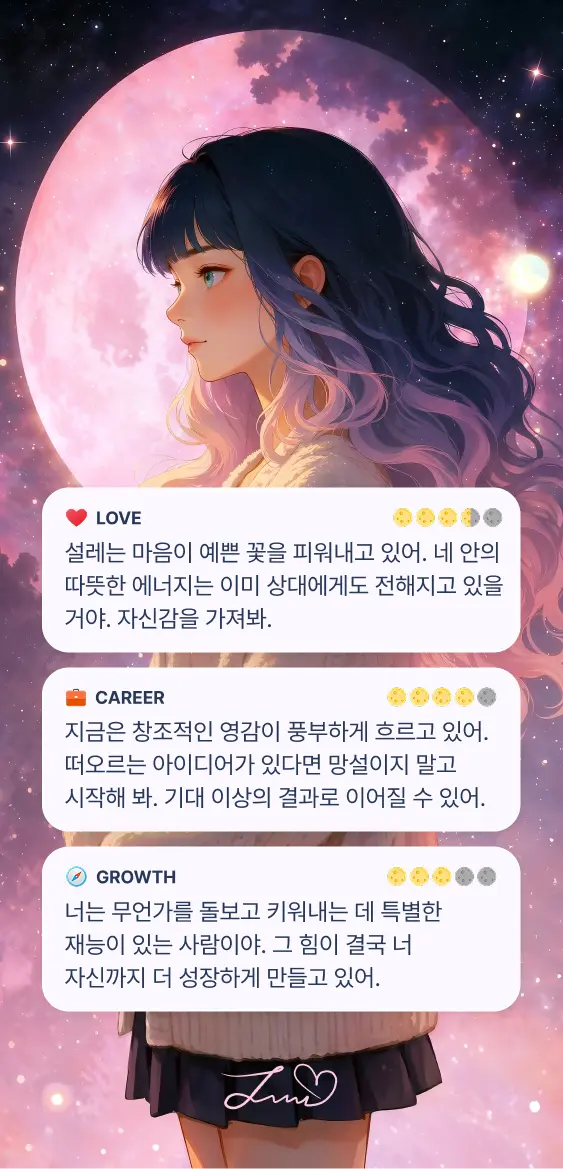
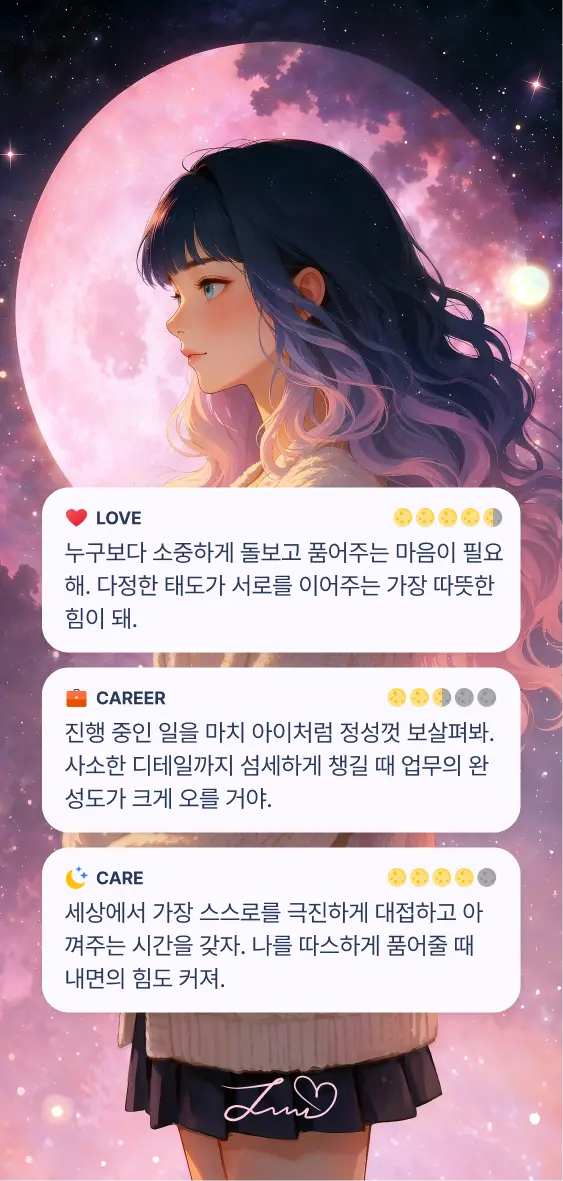
목업 수정 및 리터치

diff --git a/src/sections/HowItWorks.tsx b/src/sections/HowItWorks.tsx
@@ -5,10 +5,10 @@ import StoreButtons from '../components/StoreButtons'
 
 const steps = [
   { num: '01', title: '마음계절을 골라요.', desc: '오늘 나는 봄, 여름, 가을, 겨울?\n지금 내 마음의 온도를 계절로 선택해요.', img: '/step-1.webp' },
-  { num: '02', title: '리딩 방법을 선택해요.', desc: '나의 타로카드와 스마트폰 중에서\n선호하는 방법을 선택합니다.', img: '/step-2.webp' },
-  { num: '03', title: '타로카드 1장을 선택해요.', desc: '실물 카드 사용 시 명상 타이머가 제공돼요.\n마음을 가라앉히고 한 장을 선택합니다.', img: '/step-3.webp' },
-  { num: '04', title: '루나의 해설을 보고 일기를 써요.', desc: '일기는 24시에 초기화 되어서 부담없어요.\n해설 공유하기를 통해 개인 소장해 보세요.', img: '/step-4.webp' },
-  { num: '05', title: '회고 타로를 통해 하루를 돌아봐요.', desc: '6시간 뒤, 하루를 돌아보는 타로가 가능해요.\n오늘 하루도 정말 수고 많았어요.', img: '/step-5.webp' },
+  { num: '02', title: '리딩 방법을 정해요.', desc: 'arcoi 타로카드와 보유 타로카드 중에서\n마음에 드는 방법을 고릅니다.', img: '/step-2.webp' },
+  { num: '03', title: '타로카드 1장을 선택해요.', desc: '보유 카드 사용 시 명상 타이머가 제공돼요.\n마음을 가라앉히고 한 장을 선택해 보세요.', img: '/step-3.webp' },
+  { num: '04', title: '루나의 해설을 보고 일기를 써요.', desc: '일기는 24시에 초기화되어 부담 없어요.\n[해설 간직하기]를 통해 개인 저장도 가능해요.', img: '/step-4.webp' },
+  { num: '05', title: '오늘의 카드를 간직해요.', desc: '타로카드와 해설을 이미지로 소장해 보세요.\n매일 새로운 카드로 만나길 바라요.', img: '/step-5.webp' },
 ]
 
 export default function HowItWorks() {
@@ -82,7 +82,7 @@ export default function HowItWorks() {
             </div>
           </div>
 
-          <div className="fade-in w-full max-w-[210px] mx-auto mb-6 rounded-[28px] overflow-hidden relative"
+          <div className="fade-in w-full max-w-[210px] mx-auto mb-6 rounded-[22px] overflow-hidden relative"
             style={{
               aspectRatio: '9 / 19',
               background: 'linear-gradient(160deg, #2D1B4E, #1A1A2E)',
@@ -92,7 +92,7 @@ export default function HowItWorks() {
           >
             {steps.map((step, i) => (
               <img key={i} src={step.img} alt={step.title}
-                className="absolute top-0 w-full h-full object-cover rounded-[28px] transition-opacity duration-500"
+                className="absolute top-0 w-full h-full object-cover rounded-[22px] transition-opacity duration-500"
                 style={{ opacity: activeStep === i ? 1 : 0 }}
               />
             ))}
@@ -102,10 +102,10 @@ export default function HowItWorks() {
             <div className="font-accent text-[40px] font-semibold text-purple leading-none mb-3">
               {steps[activeStep].num}
             </div>
-            <h3 className="font-body text-lg font-bold text-text tracking-[-0.02em] mb-2">
+            <h3 className="font-body text-xl font-semibold text-text tracking-[-0.02em] mb-2">
               {steps[activeStep].title}
             </h3>
-            <p className="font-body text-sm font-normal text-text/65 leading-[1.65] whitespace-pre-line">
+            <p className="font-body text-base font-light text-text/65 leading-[1.6] whitespace-pre-line">
               {steps[activeStep].desc}
             </p>
           </div>
@@ -209,8 +209,8 @@ export default function HowItWorks() {
                   >
                     {step.title}
                   </h3>
-                  <p className="font-body font-normal text-text/65 leading-[1.65] whitespace-pre-line"
-                    style={{ fontSize: 'clamp(14px, 1.8vw, 16px)' }}
+                  <p className="font-body text-base font-light text-text/65 leading-[1.6] whitespace-pre-line"
+                    style={{ fontSize: 'clamp(16px, 2vw, 17px)' }}
                   >
                     {step.desc}
                   </p>

diff --git a/src/sections/Teaser.tsx b/src/sections/Teaser.tsx
@@ -32,13 +32,13 @@ export default function Teaser() {
         >
           아르코이의 이야기는<br />
           <span className="bg-gradient-to-r from-purple-soft to-pink-soft bg-clip-text text-transparent">
-            이제 시작이에요.
+            이제 시작이에요
           </span>
         </h2>
 
         {/* Sub copy */}
         <p className="fade-in font-body font-light text-[#DAD0EF] tracking-[-0.01em] leading-[1.65] mt-8 mb-5"
-          style={{ fontSize: 'clamp(14px, 2vw, 17px)' }}
+          style={{ fontSize: 'clamp(16px, 2vw, 17px)' }}
         >
           2026년 10월, 정식으로 만나요.<br />
           5명의 마스터와 함께하는 더 넓은 세계가 시작됩니다.

diff --git a/src/sections/Empathy.tsx b/src/sections/Empathy.tsx
@@ -66,7 +66,15 @@ export default function Empathy() {
           >
             오늘의 나를 만나요
           </h2>
+        {/* Sub copy */}
+        <p className="fade-in font-body font-light text-[#DAD0EF] tracking-[-0.01em] leading-[1.65] mt-3 mb-5"
+          style={{ fontSize: 'clamp(16px, 2vw, 17px)' }}
+        >
+          아르코이만의 오리지널 타로로<br />
+          오늘의 당신을 만나 보세요.
+        </p>
         </div>
+        
 
         {/* 카드 3장 */}
         <div className={`flex ${isMobile ? 'flex-col' : 'flex-row'} items-center justify-center`}
